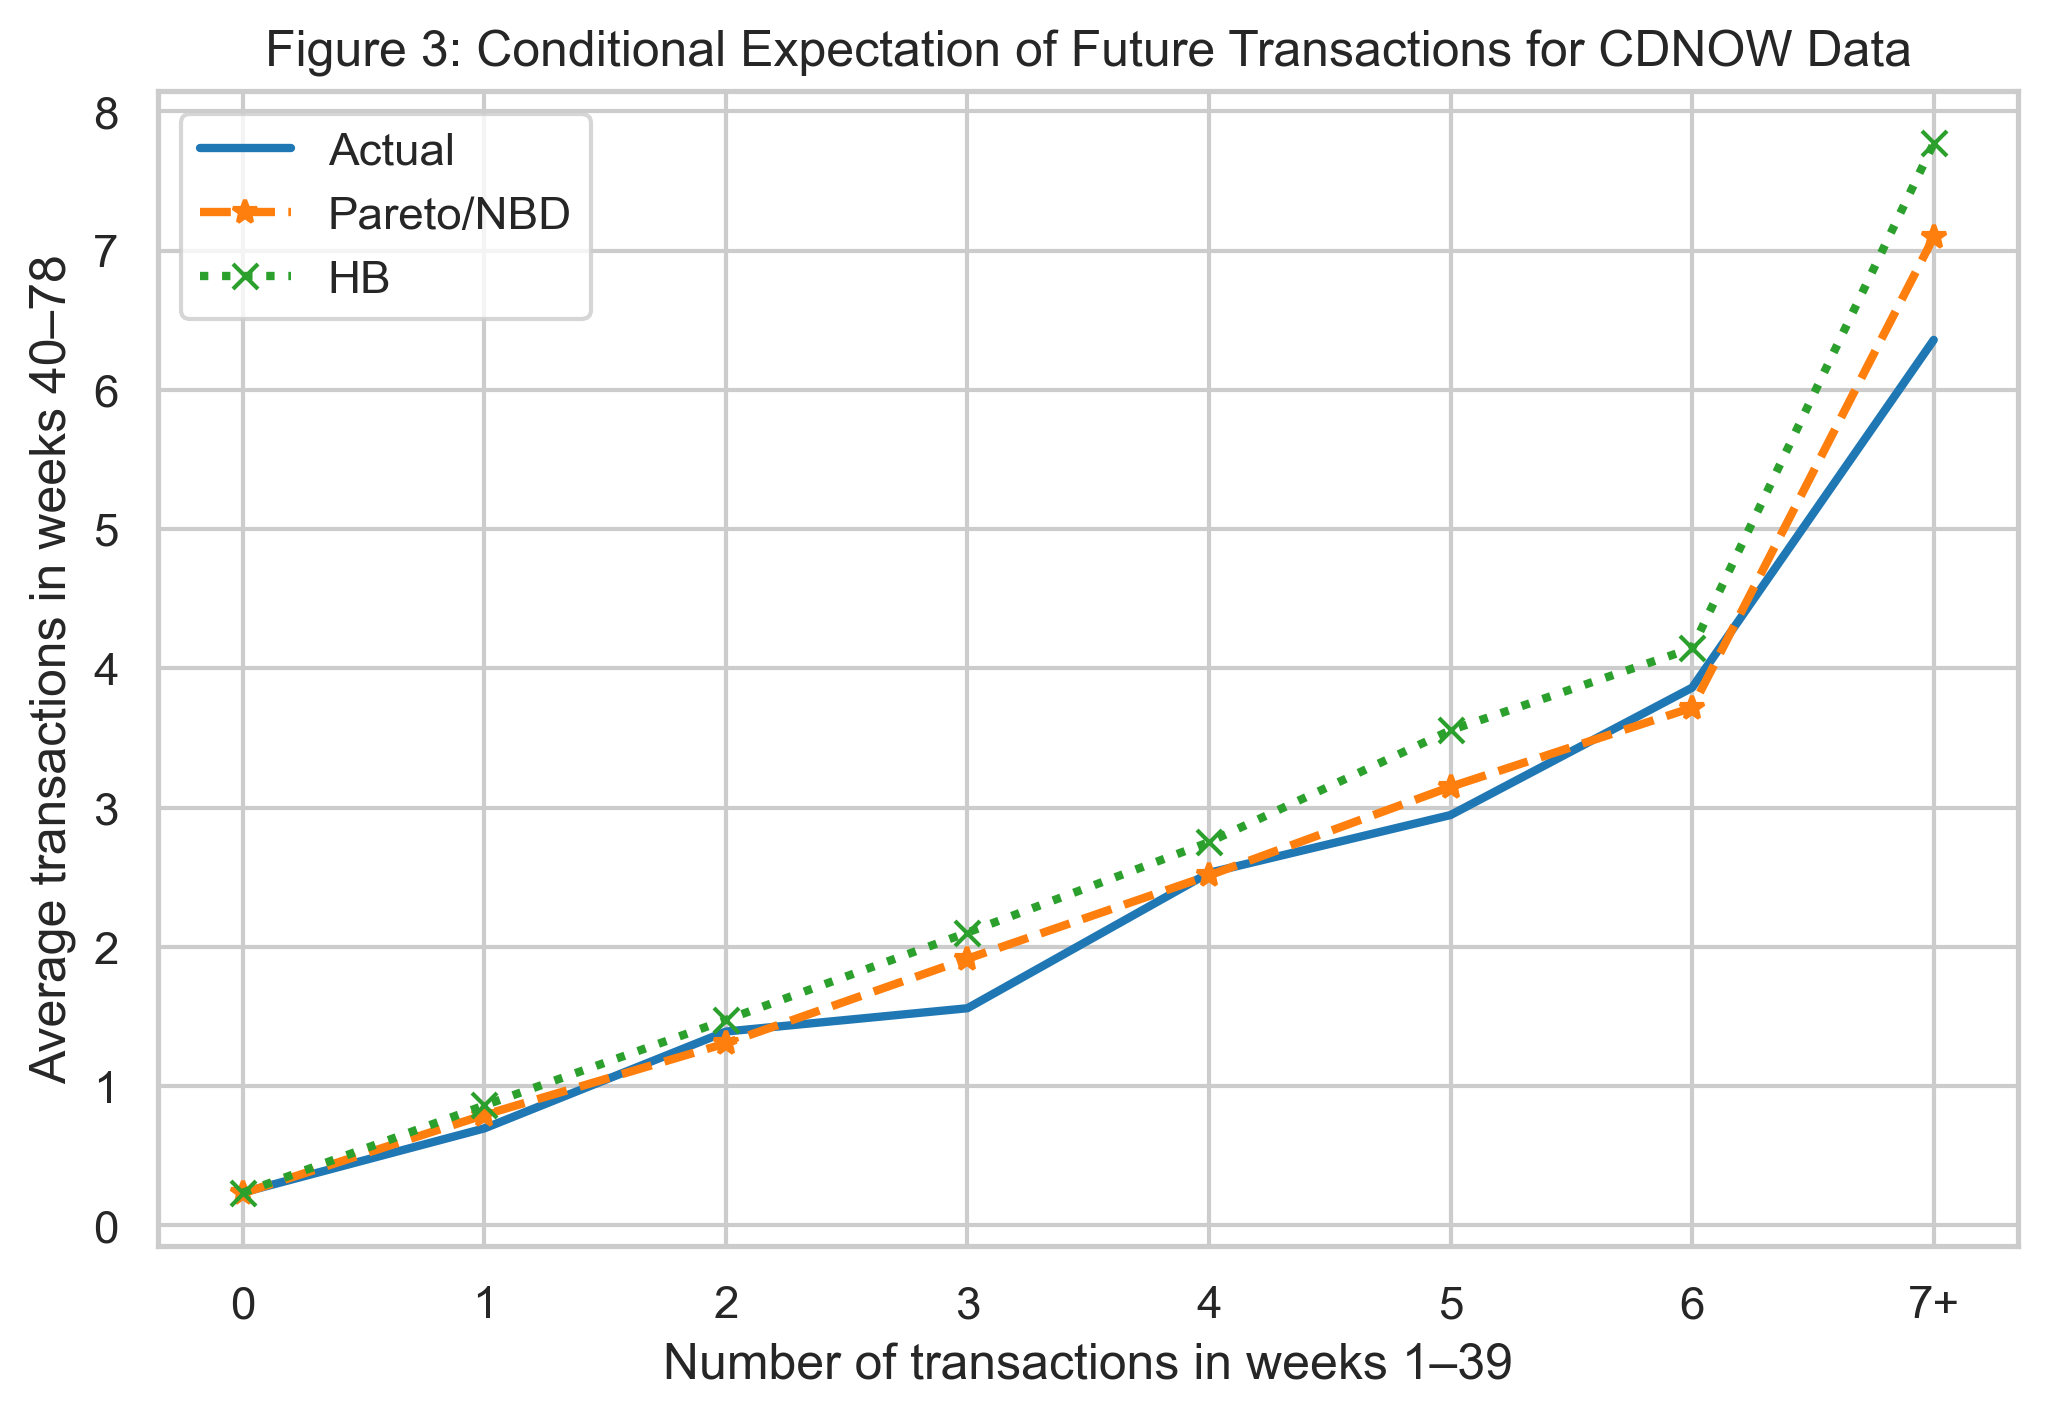
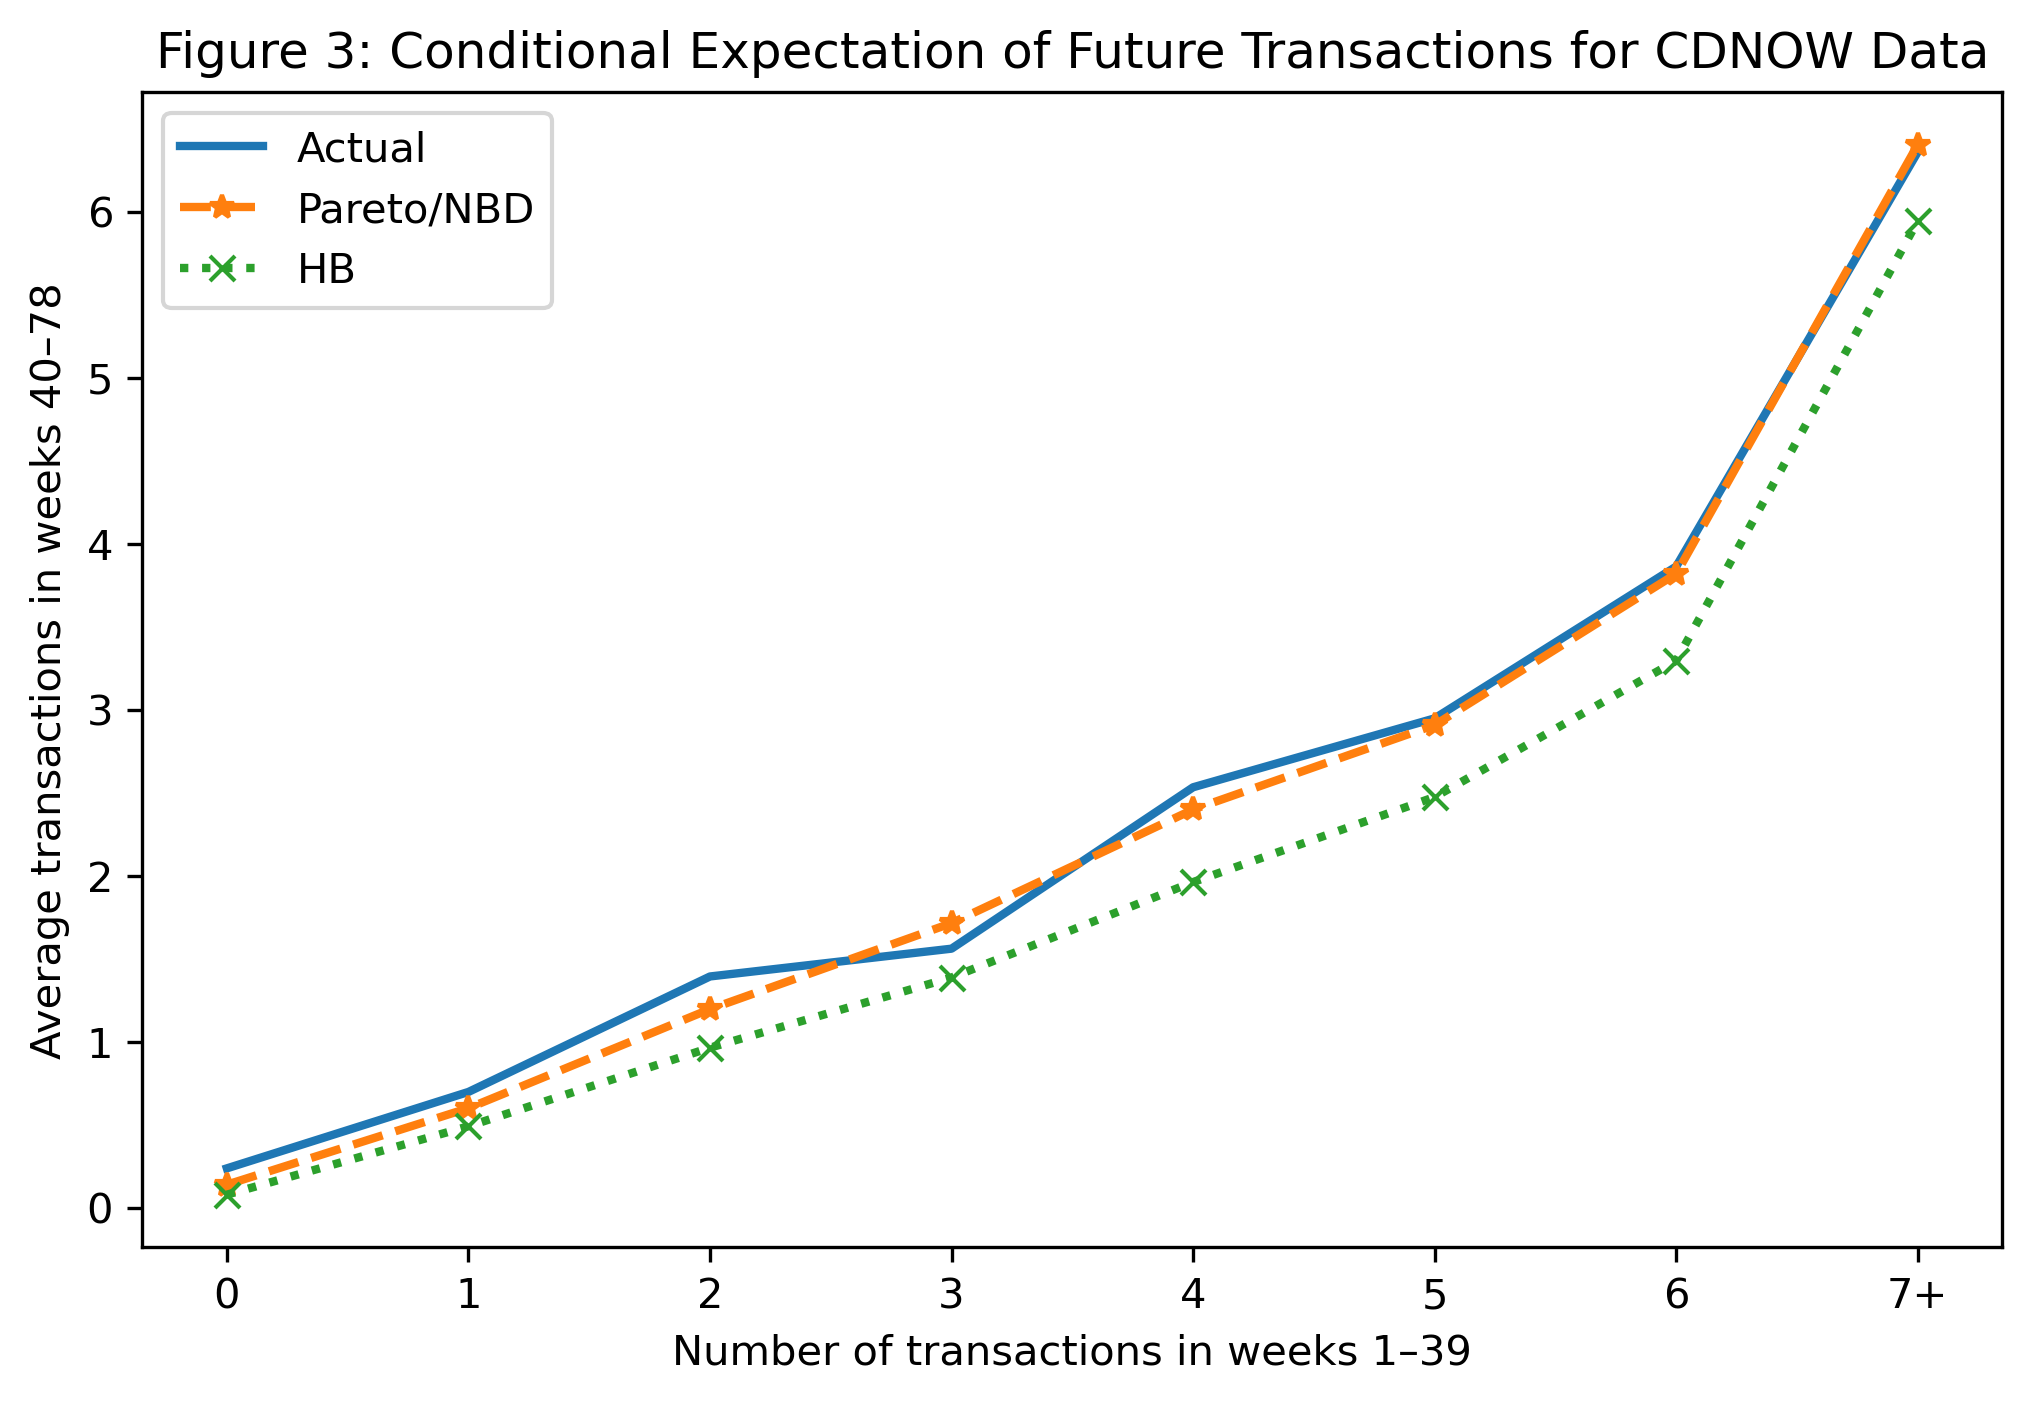
modified:   abe_python_implementation.py

diff --git a/abe_python_implementation.py b/abe_python_implementation.py
@@ -512,12 +512,37 @@ plt.show()
 
 # %% Figure 3: Conditional expectation of future transactions
 # Group by number of calibration transactions (0–7+)
-# Updated to use Pareto/NBD baseline with Model M1 posterior means
+# Use analytical expectations, with different formulas for Pareto/NBD (M1) and HB (M2)
+
+# Expected future repeats for Figure 3:
+all_draws_m1 = np.concatenate(draws_m1["level_1"], axis=0)
+all_draws_m2 = np.concatenate(draws_m2["level_1"], axis=0)
+
+mean_lambda_m1_cust = all_draws_m1[:, :, 0].mean(axis=0)
+mean_mu_m1_cust     = all_draws_m1[:, :, 1].mean(axis=0)
+mean_z_m1_cust      = all_draws_m1[:, :, 3].mean(axis=0)
+
+mean_lambda_m2_cust = all_draws_m2[:, :, 0].mean(axis=0)
+mean_mu_m2_cust     = all_draws_m2[:, :, 1].mean(axis=0)
+mean_z_m2_cust      = all_draws_m2[:, :, 3].mean(axis=0)
+
+#
+# Classical Pareto/NBD (MLE) expected future repeats for the next 39 weeks
+exp_xstar_m1 = pnbd_mle.conditional_expected_number_of_purchases_up_to_time(
+    t_star,
+    cbs["x"],
+    cbs["t_x"],
+    cbs["T_cal"]
+)
+
+# HB expectation (Model M2) – include posterior P(alive)
+exp_xstar_m2 = mean_z_m2_cust * (mean_lambda_m2_cust / mean_mu_m2_cust) * (1 - np.exp(-mean_mu_m2_cust * t_star))
+
 df = pd.DataFrame({
-    "x": cbs["x"],
+    "x":      cbs["x"],
     "actual": cbs["x_star"],
-    "pnbd": (mean_lambda_m1/mean_mu_m1)*(1-np.exp(-mean_mu_m1*cbs["T_cal"])),
-    "hb": cbs["xstar_m2_pred"]
+    "pnbd":   exp_xstar_m1,   # Pareto/NBD expectation (no P(alive))
+    "hb":     exp_xstar_m2    # HB expectation (with P(alive))
 })
 groups = []
 for k in range(7):
@@ -538,28 +563,43 @@ plt.legend()
 plt.savefig(os.path.join("Estimation","Figure3_conditional_expectation.png"), dpi=300, bbox_inches='tight')
 plt.show()
 
-# %% Figure 4: Scatter plot of posterior means of λ and μ
-plt.figure(figsize=(6,6))
-plt.scatter(mean_lambda_m2, mean_mu_m2, alpha=0.3)
-plt.xlabel("λ")
-plt.ylabel("μ")
+# %% Figure 4: Scatter plot of posterior means of λ and μ  (HB‑M1, paper style)
+mean_lambda_m1 = post_mean_lambdas(draws_m1)
+mean_mu_m1     = post_mean_mus(draws_m1)
+
+plt.figure(figsize=(6, 6))
+plt.scatter(mean_lambda_m1, mean_mu_m1, s=8, alpha=0.25, color="tab:blue")
+plt.xlim(0, 4)
+plt.ylim(0, 0.14)
+plt.xlabel(r"$\lambda$")
+plt.ylabel(r"$\mu$")
 plt.title("Figure 4: Scatter Plot of Posterior Means of λ and μ for CDNOW Data")
-plt.savefig(os.path.join("Estimation","Figure4_scatter_lambda_mu.png"), dpi=300, bbox_inches='tight')
+plt.savefig(os.path.join("Estimation", "Figure4_scatter_lambda_mu.png"),
+            dpi=300, bbox_inches="tight")
 plt.show()
 
 # %% Figure 5: Histogram of correlation between log(λ) and log(μ)
-# Compute correlation draws from level_2
-corr_draws = []
-for chain in draws_m2["level_2"]:
-    for draw in chain:
-        cov = draw[-2]; var_l = draw[-3]; var_m = draw[-1]
-        corr_draws.append(cov/np.sqrt(var_l*var_m))
-plt.figure(figsize=(8,4))
-plt.hist(corr_draws, bins=20, edgecolor='k')
+
+# Flatten level‑2 draws across chains
+level2_all = np.vstack(draws_m2["level_2"])   # shape (total_draws, n_params)
+
+# Column order in draws: [..., var_log_lambda, var_log_mu, cov_log_lambda_mu]
+var_l = level2_all[:, -3]   # sigma^2_lambda
+cov   = level2_all[:, -2]   # cov_log_lambda_mu
+var_m = level2_all[:, -1]   # sigma^2_mu
+
+# Keep draws with strictly positive variances
+mask = (var_l > 0) & (var_m > 0)
+corr_draws = cov[mask] / np.sqrt(var_l[mask] * var_m[mask])
+
+plt.figure(figsize=(8, 4))
+plt.hist(corr_draws, bins=30, edgecolor="k")
+plt.xlim(-0.3, 0.4)
 plt.xlabel("Correlation")
 plt.ylabel("Frequency")
 plt.title("Figure 5: Distribution of Correlation Between log(λ) and log(μ) for CDNOW Data")
-plt.savefig(os.path.join("Estimation","Figure5_corr_histogram.png"), dpi=300, bbox_inches='tight')
+plt.savefig(os.path.join("Estimation", "Figure5_corr_histogram.png"),
+            dpi=300, bbox_inches="tight")
 plt.show()
 
 
